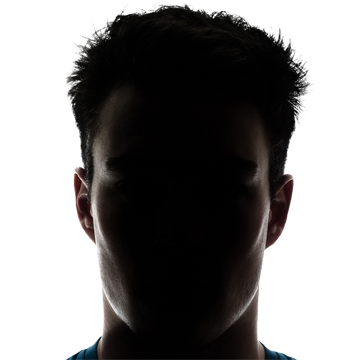
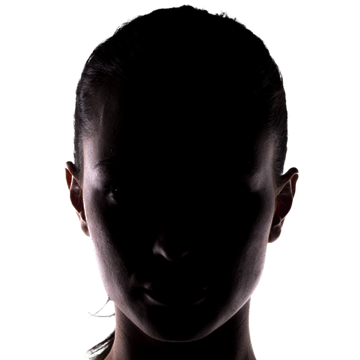
fix -update-staff-bug and -update-staff-image-bug

diff --git a/src/main/java/com/bandg/users/models/User.java b/src/main/java/com/bandg/users/models/User.java
@@ -1,8 +1,13 @@
 package com.bandg.users.models;
 
 import com.bandg.users.dao.PostDao;
+import com.bandg.users.security.ApplicationUserPermission;
+import com.bandg.users.security.ApplicationUserRole;
 import com.fasterxml.jackson.annotation.JsonProperty;
 import org.springframework.beans.factory.annotation.Autowired;
+import org.springframework.security.core.GrantedAuthority;
+import org.springframework.security.core.authority.SimpleGrantedAuthority;
+import org.springframework.security.core.userdetails.UserDetails;
 /*
 import org.springframework.security.core.GrantedAuthority;
 import org.springframework.security.core.authority.SimpleGrantedAuthority;
@@ -13,9 +18,13 @@ import org.springframework.security.core.userdetails.UserDetails;
 import java.sql.Date;
 import java.util.Collection;
 import java.util.List;
+import java.util.Set;
 import java.util.UUID;
 
-public class User   {
+import static com.bandg.users.security.ApplicationUserRole.ADMIN;
+import static com.bandg.users.security.ApplicationUserRole.REGULARUSER;
+
+public class User  implements UserDetails {
 
     @JsonProperty("email")
     private final String email;
@@ -23,48 +32,39 @@ public class User   {
     private final String fullName;
     @JsonProperty("dob")
     private final Date dob;
+    @JsonProperty("Authorities")
+    private final Set<SimpleGrantedAuthority> authorities;
 
-   // @JsonProperty("Authorities")
-   // private final List<SimpleGrantedAuthority> authorities;
-    @JsonProperty("image")
-    private final String imageLink;
-    @JsonProperty("password")
+    @JsonProperty("imageId")
+    private UUID imageId;
+
     private final String password;
-    @JsonProperty("postId")
-    private final UUID  postId;
-
+    @JsonProperty("post")
+    private final String   post;
     private  boolean isActivated;
 
     private  boolean isLocked;
 
-    @Autowired
-    private   PostDao postdao;
-
     public User(
-            String email,
-            String fullName,
-            Date dob,
-         //   List<SimpleGrantedAuthority> authorities,
-            String imageLink,
-            String password,
-            UUID postId,
-            boolean isActivated,
-            boolean isLocked
+            @JsonProperty("email") String email,
+            @JsonProperty("fullName")String fullName,
+            @JsonProperty("dob")  Date dob,
+            @JsonProperty("level")int level,
+            @JsonProperty("password") String password,
+            @JsonProperty("post") String post
     ) {
 
         this.email = email;
         this.fullName = fullName;
         this.dob = dob;
-       // this.authorities = authorities;
-        this.imageLink = imageLink;
+        this.authorities = REGULARUSER.getGrantedAuthorities();
         this.password = password;
-        this.postId = postId;
-        this.isActivated = isActivated;
-        this.isLocked = isLocked;
+        this.post = post;
+        this.isActivated = false;
+        this.isLocked = true;
     }
 
-
- /*   @Override
+   @Override
     public Collection<? extends GrantedAuthority> getAuthorities() {
         return authorities;
     }
@@ -100,5 +100,5 @@ public class User   {
     public boolean isEnabled() {
 
         return isActivated;
-    }*/
+    }
 }

diff --git a/src/main/java/com/bandg/users/dao/FileDataAccess.java b/src/main/java/com/bandg/users/dao/FileDataAccess.java
@@ -2,9 +2,12 @@ package com.bandg.users.dao;
 
 import com.bandg.users.models.MyFile;
 import org.springframework.beans.factory.annotation.Autowired;
+import org.springframework.dao.EmptyResultDataAccessException;
 import org.springframework.jdbc.core.JdbcTemplate;
 import org.springframework.stereotype.Repository;
 
+import java.io.File;
+import java.nio.file.NoSuchFileException;
 import java.util.UUID;
 
 @Repository
@@ -38,5 +41,23 @@ public class FileDataAccess  implements FileDao{
         }
                 ,
                 id);
+    }
+
+    @Override
+    public void deleteFileById(UUID imageId) throws NoSuchFileException {
+        try {
+            MyFile fileToDelete = getFileById(imageId);
+            File file = new File(fileToDelete.getPath());
+            if (file.exists())
+            {
+                file.delete();
+            }
+            else
+                throw new NoSuchFileException("file with id = (" + imageId+") not found");
+
+        }catch(EmptyResultDataAccessException e)
+        {
+            throw new NoSuchFileException("file with id = (" + imageId+") not found");
+        }
     }
 }

diff --git a/src/main/java/com/bandg/users/api/StaffController.java b/src/main/java/com/bandg/users/api/StaffController.java
@@ -14,6 +14,7 @@ import org.assertj.core.util.Lists;
 import org.json.JSONObject;
 import org.springframework.http.MediaType;
 import org.springframework.http.ResponseEntity;
+import org.springframework.scheduling.annotation.Async;
 import org.springframework.web.bind.annotation.*;
 import org.springframework.web.multipart.MultipartFile;
 
@@ -95,6 +96,7 @@ public class StaffController {
             staffService.updateStaff(staff);
         }catch (Exception e)
         {
+            e.printStackTrace();
             if (e instanceof NoSuchStaffException)
               return  ResponseEntity.status(404).body(e.toString());
             return ResponseEntity.status(600).body(e.toString());
@@ -108,6 +110,7 @@ public class StaffController {
 
         return staffService.searchForStaff(element);
     }
+
 
     @PutMapping("/api/staff/setImage")
     public  ResponseEntity SetStaffImage(@RequestBody() MultipartFile file) {
@@ -164,7 +167,7 @@ public class StaffController {
         }
 
 
-            return ResponseEntity.status(200).body(ret);
+            return ResponseEntity.status(200).body(ret.toString());
     }
 
 

diff --git a/src/main/java/com/bandg/users/service/StaffService.java b/src/main/java/com/bandg/users/service/StaffService.java
@@ -9,6 +9,7 @@ import org.json.JSONException;
 import org.json.JSONObject;
 import org.springframework.beans.factory.annotation.Autowired;
 import org.springframework.beans.factory.annotation.Qualifier;
+import org.springframework.scheduling.annotation.Async;
 import org.springframework.stereotype.Service;
 import org.springframework.web.multipart.MultipartFile;
 
@@ -78,6 +79,7 @@ public class StaffService {
         return staffDao.searchForStaff(element);
     }
 
+
     public int inserStaffImage(byte []file, String name) {
 
         String fname = name.trim().split("\\.")[0];
@@ -86,8 +88,9 @@ public class StaffService {
         int id  = Integer.parseInt(fname);
 
         try {
-            if (imageType.)
+
             Staff staff = getStaffById(id);
+            fileService.deleteFile(staff.getImageId());
             UUID imageid = fileService.insertFile(file, name);
             staff.setImageid(imageid);
             updateStaff(staff);

diff --git a/src/main/java/com/bandg/users/security/ApplicationUserRole.java b/src/main/java/com/bandg/users/security/ApplicationUserRole.java
@@ -2,6 +2,7 @@ package com.bandg.users.security;
 
 import org.assertj.core.util.Lists;
 import org.assertj.core.util.Sets;
+import org.springframework.security.core.authority.SimpleGrantedAuthority;
 //import org.springframework.security.core.authority.SimpleGrantedAuthority;
 
 import java.nio.channels.WritableByteChannel;
@@ -13,7 +14,6 @@ import java.util.stream.Collectors;
 import static com.bandg.users.security.ApplicationUserPermission.READ;
 import static com.bandg.users.security.ApplicationUserPermission.WRITE;
 public enum ApplicationUserRole {
-/*
     ADMIN(Sets.newHashSet(Lists.list(READ,WRITE))),
     REGULARUSER(Sets.newHashSet(Lists.list(READ)));
 
@@ -33,5 +33,5 @@ public enum ApplicationUserRole {
                 .collect(Collectors.toSet());
         permissions.add(new SimpleGrantedAuthority("ROLE_" + this.name()));
         return permissions;
-    }*/
+    }
 }

diff --git a/src/main/java/com/bandg/users/dao/StaffDataAccess.java b/src/main/java/com/bandg/users/dao/StaffDataAccess.java
@@ -77,7 +77,7 @@ public class StaffDataAccess implements StaffDao {
 
     @Override
     public int updateStaff(Staff staff) {
-        getStaffById(staff.getId());
+       Staff stf = getStaffById(staff.getId());
         String sql = "update staff set birth_day=? ," +
                 " birth_place=?," +
                 "sex =?" +
@@ -115,7 +115,9 @@ public class StaffDataAccess implements StaffDao {
                     staff.getRegimeRetraite(),
                     staff.getAffilRecore(),
                     staff.getDateDerPromo(),
-                    staff.getImageId(),
+                   staff.getImageId()!=null?
+                           staff.getImageId():
+                           stf.getImageId(),
                     staff.getId());
         return 1;
     }

diff --git a/src/main/java/com/bandg/users/service/FileService.java b/src/main/java/com/bandg/users/service/FileService.java
@@ -40,4 +40,21 @@ public class FileService {
         return fileDao.getFileById(id);
     }
 
+    public void deleteFile(UUID imageId) {
+        if (
+                !imageId.equals(UUID.fromString(
+                        fileConfig.getFDef().get(0))
+                )
+                &&
+                !imageId.equals(UUID.fromString(
+                        fileConfig.getMDef().get(0))) )
+        {
+            try {
+                fileDao.deleteFileById(imageId);
+            }catch (Exception e)
+            {
+                e.printStackTrace();
+            }
+        }
+    }
 }

diff --git a/src/main/java/com/bandg/users/UsersApplication.java b/src/main/java/com/bandg/users/UsersApplication.java
@@ -4,9 +4,10 @@ import org.springframework.boot.SpringApplication;
 import org.springframework.boot.autoconfigure.EnableAutoConfiguration;
 import org.springframework.boot.autoconfigure.SpringBootApplication;
 import org.springframework.boot.context.properties.ConfigurationProperties;
+import org.springframework.scheduling.annotation.EnableAsync;
 
 
-
+@EnableAsync
 @SpringBootApplication
 public class UsersApplication {
 

diff --git a/src/main/java/com/bandg/users/dao/FileDao.java b/src/main/java/com/bandg/users/dao/FileDao.java
@@ -2,9 +2,12 @@ package com.bandg.users.dao;
 
 import com.bandg.users.models.MyFile;
 
+import java.nio.file.NoSuchFileException;
 import java.util.UUID;
 
 public interface FileDao {
     UUID insertFile( String name);
   MyFile getFileById(UUID id);
+
+    void deleteFileById(UUID imageId) throws NoSuchFileException;
 }
